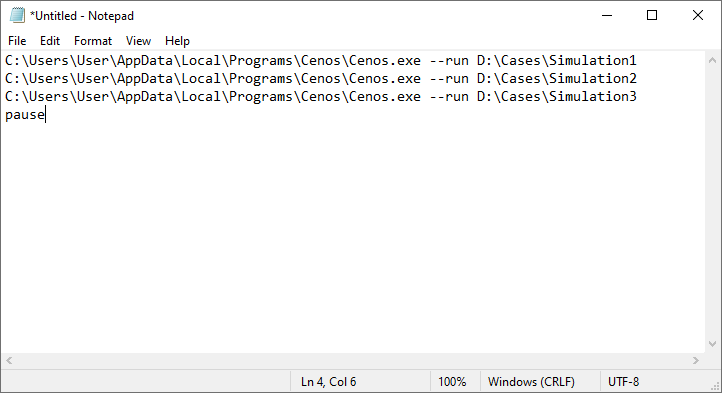
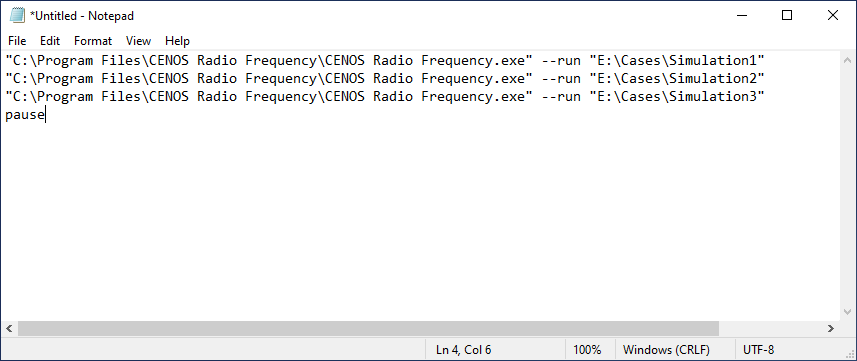
Batch Running update for RF (#5)
* Change IH to RF app properties image

Changed image for app properties to RF from IH.

* Add path with spacing disclaimer

Batch running will not work if the path contains spaces, so I added a note disclosing this issue.

* Moved path spacing disclaimer after image

* Path image visibility and quotation mark update

* Update to Notepad screenshot

Changed notepad screenshot to include quotation marks

* Path disclaimer placement and visibility update

Changed the path disclaimer from Note to Important Warning, changed previous "Important" message into

* Update to case folder image

* Phrasing update

diff --git a/docs/physics-batch-running.md b/docs/physics-batch-running.md
@@ -34,7 +34,7 @@ In this example we will set up a successive running of 3 cases.
 
 ### 2. Define the sequence
 
-To define the cases you want to run, you need to **write a command line for each case** which defines with what to run it and where to find the case file. The basic structure of this command consists of 2 parts - **CENOS path**, where CENOS is installed and from where it is started, and **case path** to the case folder you want to run.
+To define the cases you want to run, you need to **write a command line for each case** which defines with what to run it and where to find the case file. The basic structure of this command consists of 2 parts - **"CENOS path"**, where CENOS is installed and from where it is started, and **"case path"** to the case folder you want to run.
 
 <p align="center">
 
@@ -50,7 +50,7 @@ To find **CENOS path**, right-click on CENOS shortcut and select **Properties**.
 
 </p>
 
-To find **case path**, in **File Explorer** go to the case folder and copy its adress from the **Adress Bar**.
+To find **case path**, in **File Explorer** go to the case folder and copy its address from the **Address Bar**.
 
 <p align="center">
 
@@ -60,7 +60,13 @@ To find **case path**, in **File Explorer** go to the case folder and copy its a
 
 In this example we will set up successive running for 3 cases. Simply write the command for each case in its own line.
 
-**IMPORTANT**: To make sure the console window does not close after the end of calculations, write *pause* after case command lines.
+:::note
+To make sure the console window does not close after the end of calculations, write *pause* after case command lines.
+:::
+
+:::warning important
+Put both paths inside quotation marks, otherwise the spacing will break the command!
+:::
 
 <p align="center">
 
